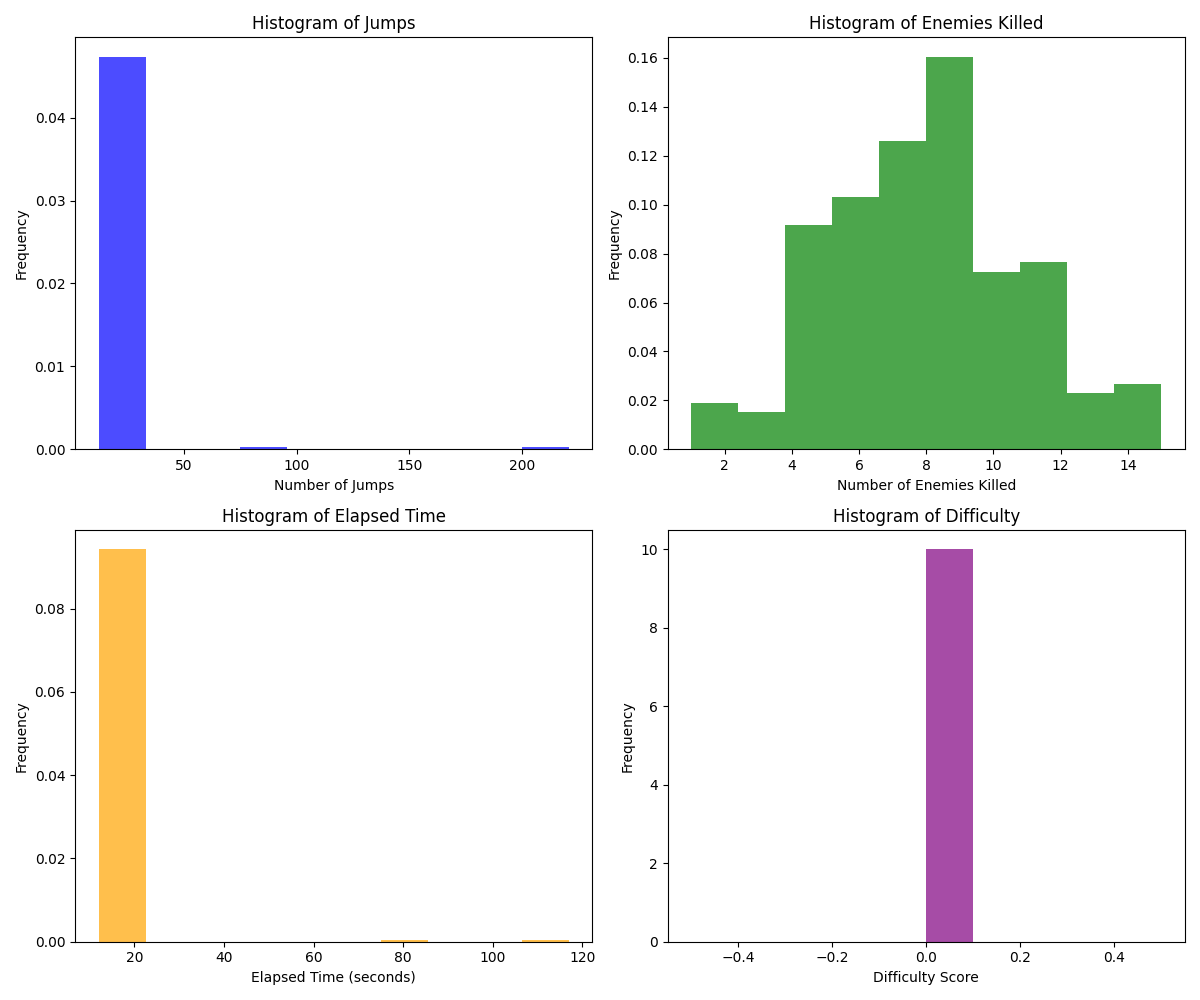
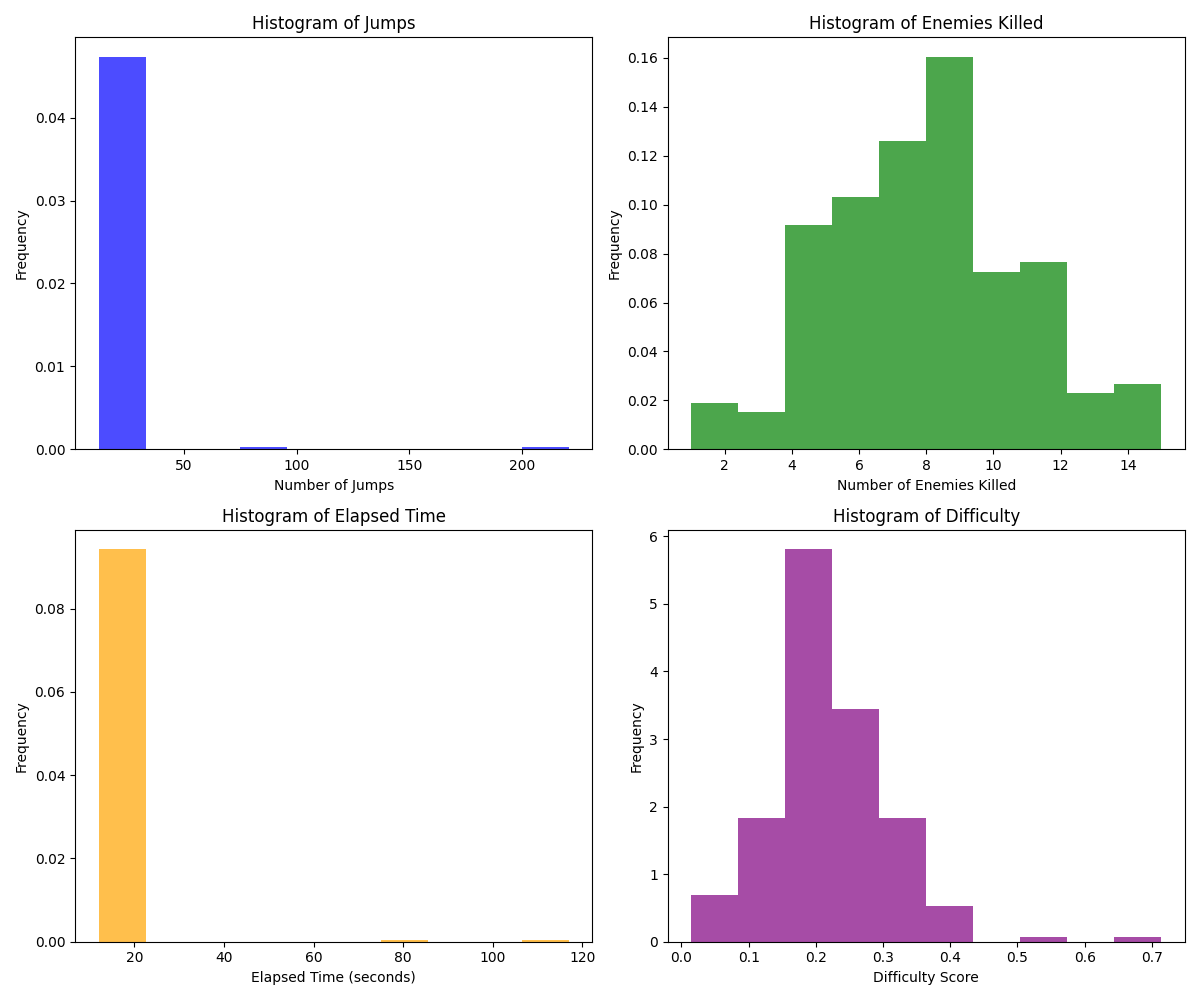
feat: update histograms and covariance matrices for game statistics

diff --git a/src/utils/logs_statistics.py b/src/utils/logs_statistics.py
@@ -533,10 +533,10 @@ def calculate_statistics(logs: dict):
 def get_data_to_histogram(logs: dict):
   logs_difficulty = find_difficulty(logs)
   
-  jumps_values = [int(log['jumps']) for log in logs_difficulty.values()]
-  enemies_killed_values = [int(log['total_kills']) for log in logs_difficulty.values()]
-  difficulty_values = [int(log['difficulty']) for log in logs_difficulty.values()]
-  time_values = [int(log['elapsed_time']) for log in logs_difficulty.values()]
+  jumps_values = [float(log['jumps']) for log in logs_difficulty.values()]
+  enemies_killed_values = [float(log['total_kills']) for log in logs_difficulty.values()]
+  difficulty_values = [float(log['difficulty']) for log in logs_difficulty.values()]
+  time_values = [float(log['elapsed_time']) for log in logs_difficulty.values()]
   
   return {
     'jumps': jumps_values,
@@ -582,7 +582,7 @@ def plot_histograms(logs: dict, path: str):
   
 def covariance_matrix(logs: dict, path: str):
   histogram_data = get_data_to_histogram(logs)
-  x = np.array([histogram_data['jumps'], histogram_data['enemies_killed'], histogram_data['difficulty'], histogram_data['time']])
+  x = np.ma.array([histogram_data['jumps'], histogram_data['enemies_killed'], histogram_data['difficulty'], histogram_data['time']])
   
   # Create a covariance matrix
   covariance_matrix = np.cov(x)
@@ -591,15 +591,14 @@ def covariance_matrix(logs: dict, path: str):
   column_labels = ['Jumps', 'Enemies Killed', 'Difficulty', 'Time']
   row_labels = ['Jumps', 'Enemies Killed', 'Difficulty', 'Time']
   
-  # Create a DataFrame from the covariance matrix
   df = pd.DataFrame(covariance_matrix, columns=column_labels, index=row_labels)
   
   # Save the DataFrame to a CSV file
-  df.to_csv(path, index=False)
+  df.to_csv(path, index=True)
   
 def normalized_covariance_matrix(logs: dict, path: str):
   histogram_data = get_data_to_histogram(logs)
-  x = np.array([histogram_data['jumps'], histogram_data['enemies_killed'], histogram_data['difficulty'], histogram_data['time']])
+  x = np.ma.array([histogram_data['jumps'], histogram_data['enemies_killed'], histogram_data['difficulty'], histogram_data['time']])
 
   # Create a covariance matrix
   covariance_matrix = np.corrcoef(x)
@@ -607,12 +606,11 @@ def normalized_covariance_matrix(logs: dict, path: str):
   # Add labels to the normalized covariance matrix
   column_labels = ['Jumps', 'Enemies Killed', 'Difficulty', 'Time']
   row_labels = ['Jumps', 'Enemies Killed', 'Difficulty', 'Time']
-
-  # Create a DataFrame from the normalized covariance matrix
+  
   df = pd.DataFrame(covariance_matrix, columns=column_labels, index=row_labels)
-
+  
   # Save the DataFrame to a CSV file
-  df.to_csv(path, index=False)
+  df.to_csv(path, index=True)
   
 
 for dir in os.listdir(file_path):
